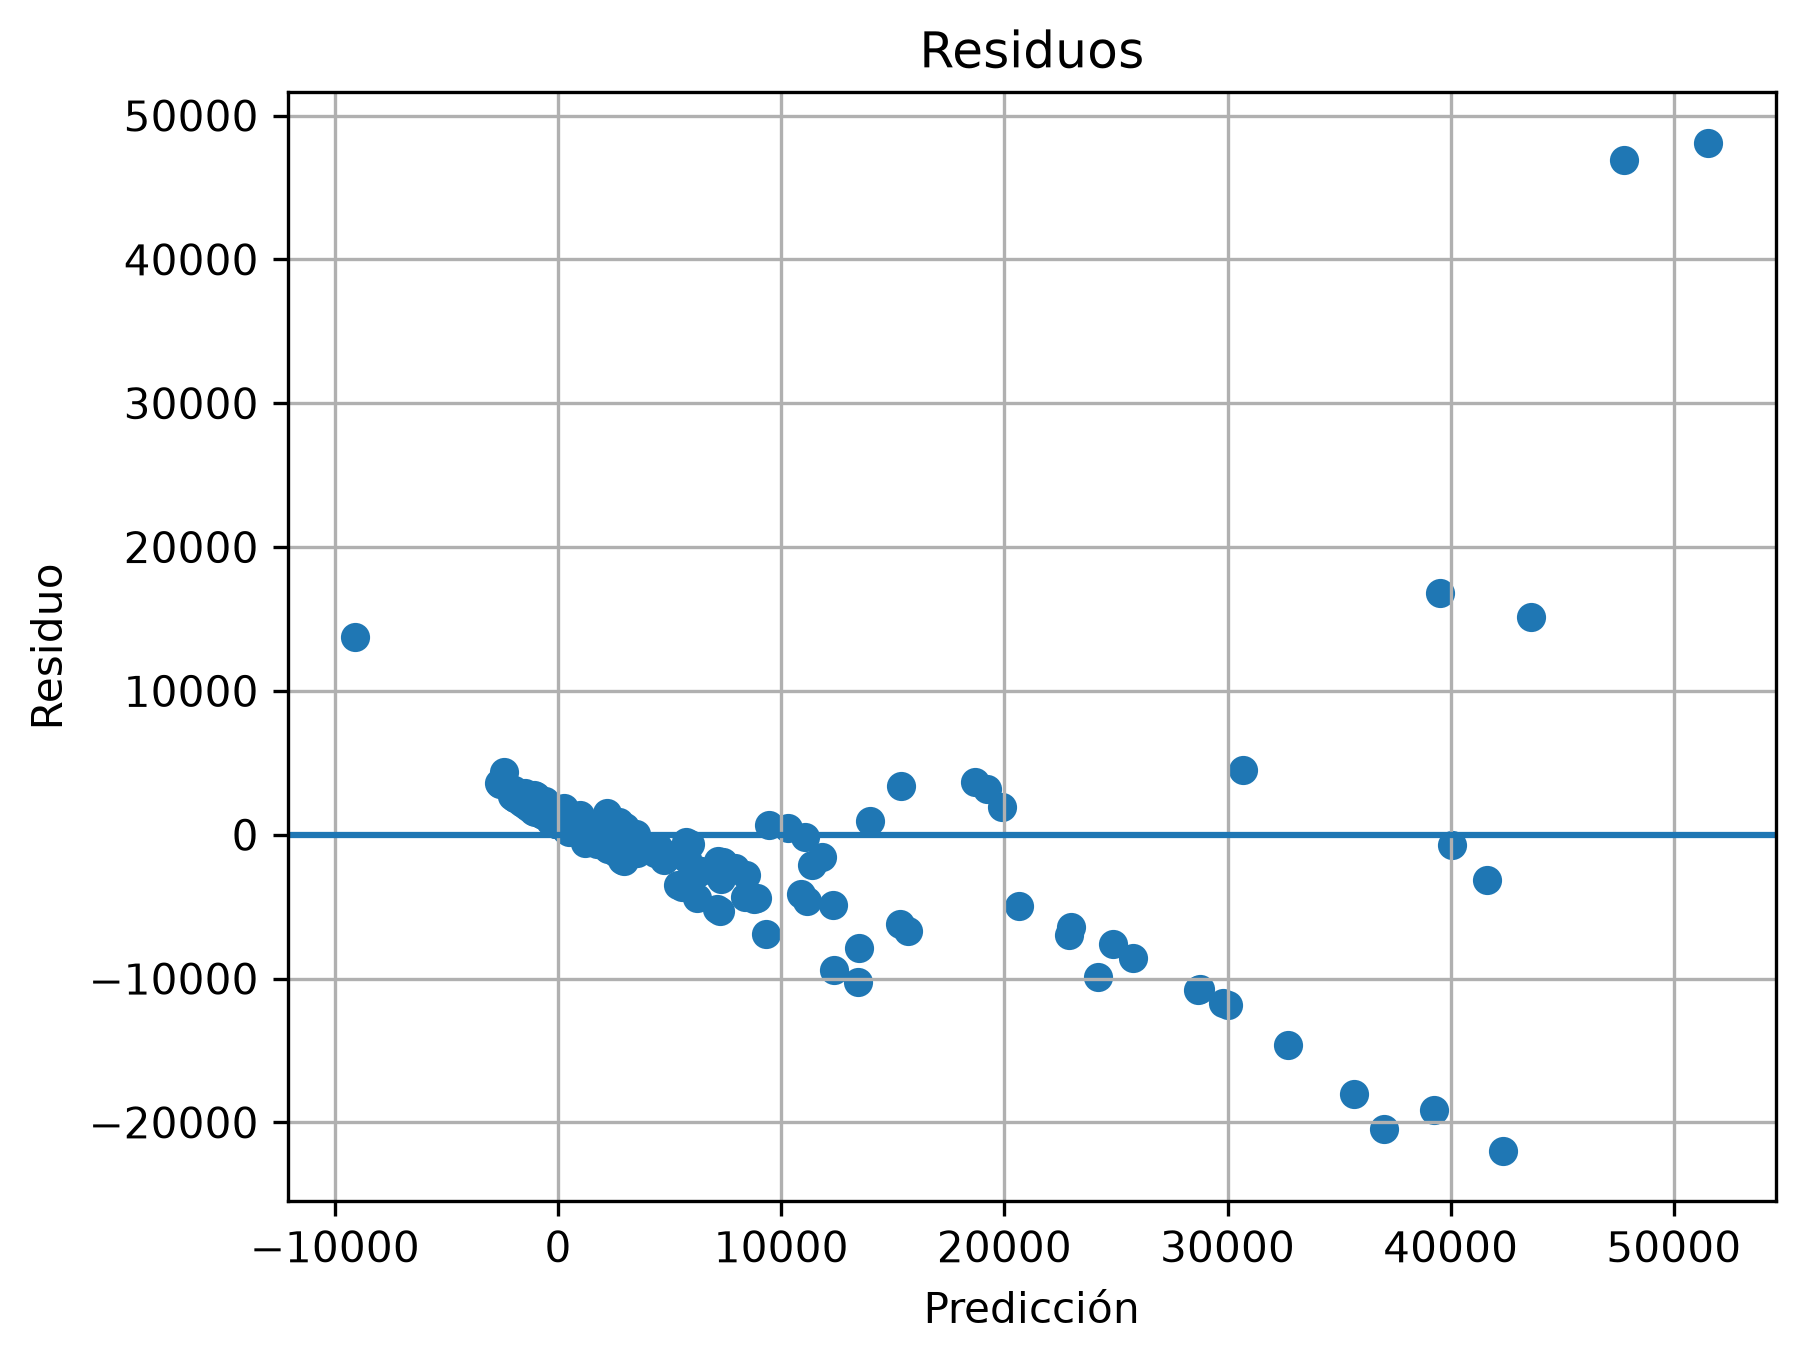
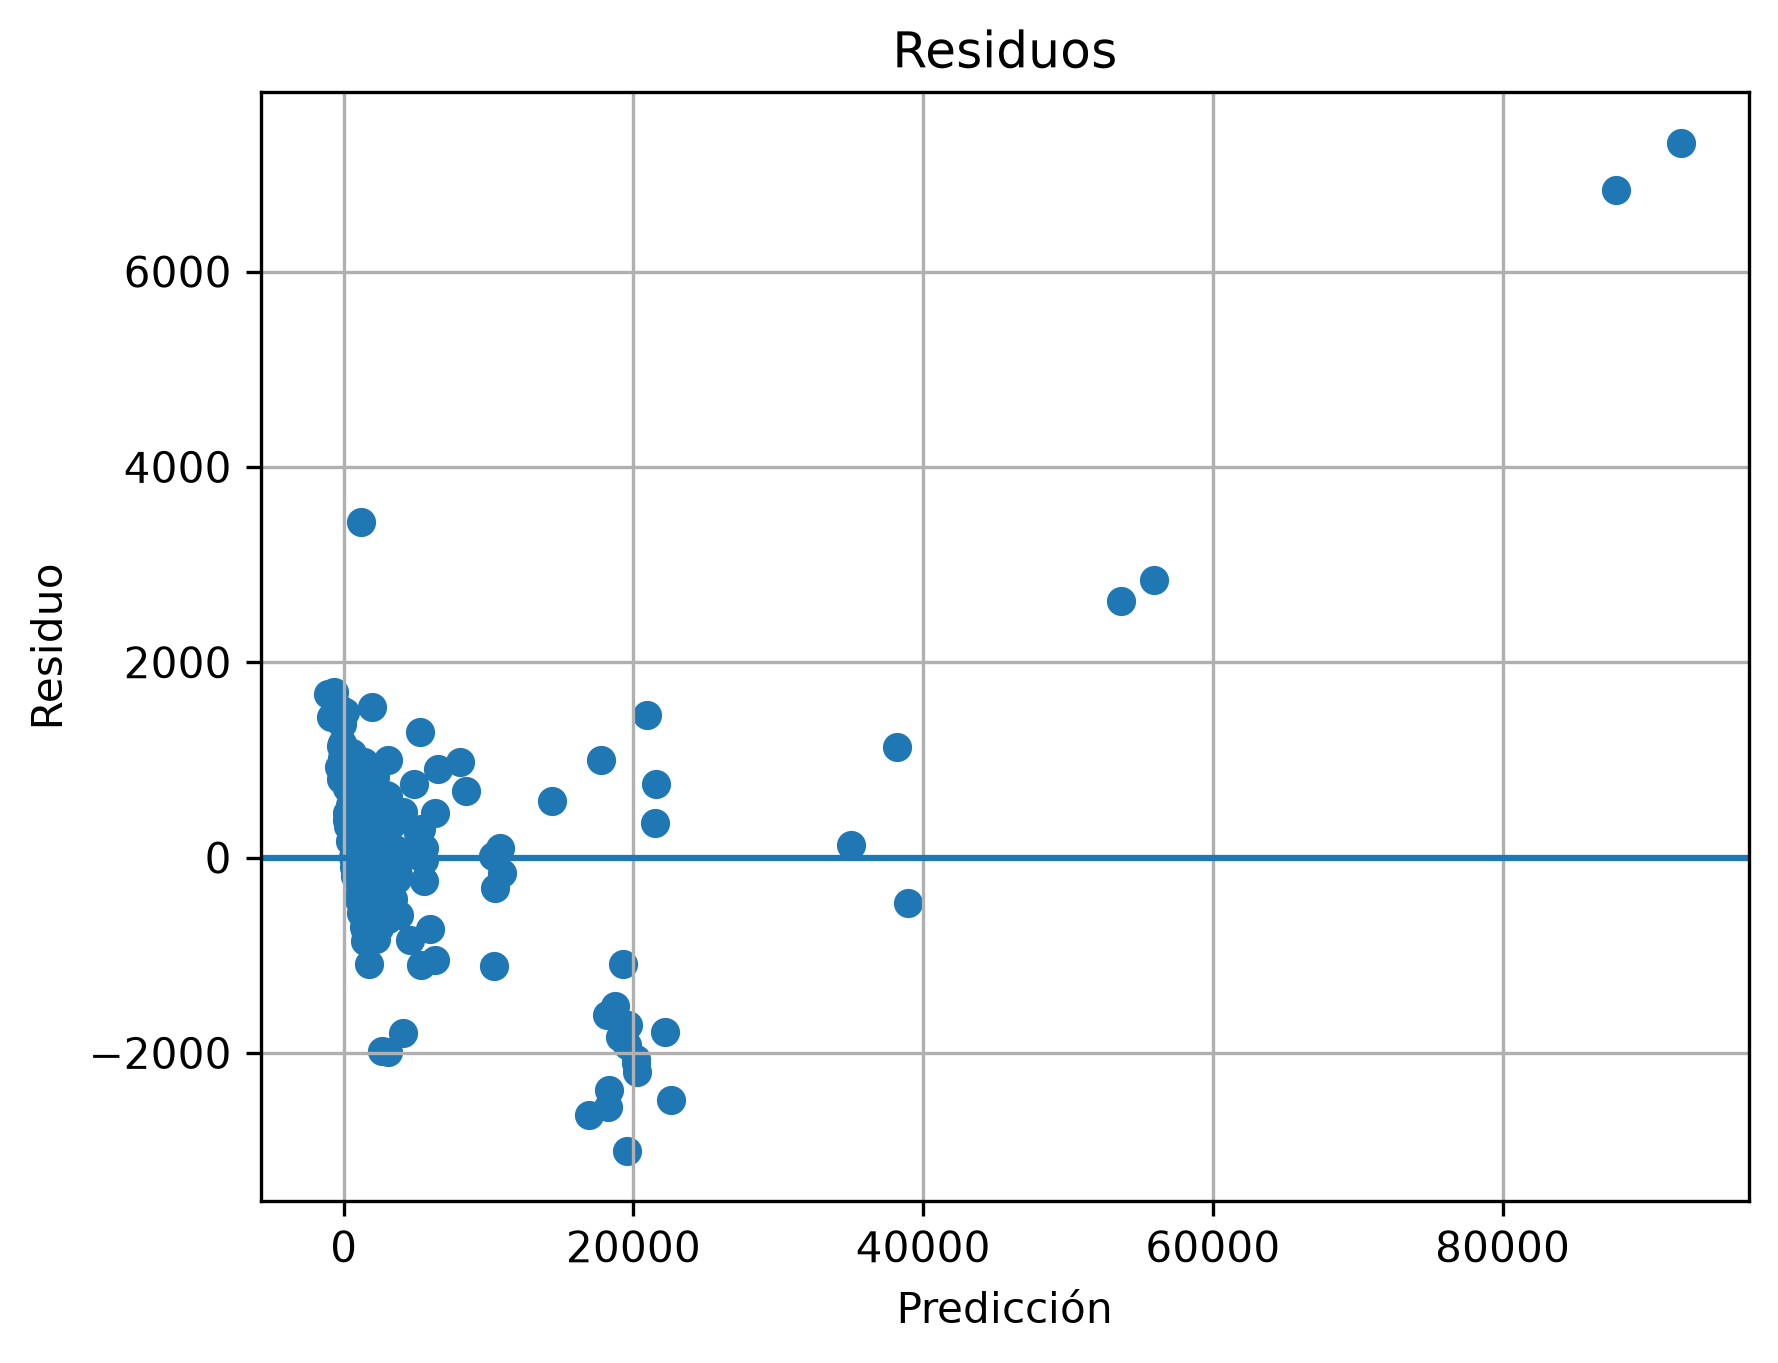
Corregios errores en la limpieza de datos y profundizamos en EDA para hacer el entrenamiento mas preciso.

diff --git a/Machine_Learning/Semana_2_ML/dia7AnalisisVentas/src/services/analizadorDatos.py b/Machine_Learning/Semana_2_ML/dia7AnalisisVentas/src/services/analizadorDatos.py
@@ -19,27 +19,32 @@ def paraDataFrame(tabla_csv):
 def limpiezaDatos(tablaDatos): 
    
    # ----------- Fecha --------------------------------------------------
-   tablaDatos["Fecha"] = pd.to_datetime(tablaDatos["Fecha"], format="mixted", errors="coerce")
+   tablaDatos["Fecha"] = pd.to_datetime(tablaDatos["Fecha"], format="mixed", errors="coerce")
+
    tablaDatos["Fecha"] = tablaDatos["Fecha"].fillna(datetime.now())
    tablaDatos["Fecha"] = pd.to_datetime(tablaDatos["Fecha"])
 
    tablaDatos["Mes"] = tablaDatos["Fecha"].dt.month
    tablaDatos["Dia"] = tablaDatos["Fecha"].dt.day
+   tablaDatos = tablaDatos.drop(columns=["Fecha"], errors="ignore")
 
    # ----------- Producto -----------------------------------------------
 
+   tablaDatos["Producto"] = tablaDatos["Producto"].replace("Memoria RAM 16 GB","Memoria RAM 16GB")
+   tablaDatos["Producto"] = tablaDatos["Producto"].replace("Laptop ","Laptop")
    tablaDatos["Producto"] = tablaDatos["Producto"].astype("string")
-   tablaDatos["Producto"] = tablaDatos["Producto"].fillna("Sin Informacion")
 
    # ----------- Ciudad -----------------------------------------------
    
-   tablaDatos["Ciudad"] = tablaDatos["Ciudad"].astype("string")
-   tablaDatos["Ciudad"] = tablaDatos["Ciudad"].fillna("Sin Ciudad")
+   tablaDatos["Ciudad"] = tablaDatos["Ciudad"].astype(str).str.strip()
+   tablaDatos["Ciudad"] = tablaDatos["Ciudad"].replace("Guadalajra", "Guadalajara")
+
 
    # ----------- Canal -----------------------------------------------
    
-   tablaDatos["Canal"] = tablaDatos["Canal"].astype("string")
-   tablaDatos["Canal"] = tablaDatos["Canal"].fillna("Sin Informacion")
+   tablaDatos["Canal"] = tablaDatos["Canal"].astype(str).str.strip()
+   tablaDatos["Canal"] = tablaDatos["Canal"].str.capitalize()
+   tablaDatos["Canal"] = tablaDatos["Canal"].replace("Tienda fisica","Tienda física")
 
    # ----------- Cantidad -----------------------------------------------
       
@@ -48,7 +53,7 @@ def limpiezaDatos(tablaDatos):
    medianaCant = np.nanmedian(tablaDatos["Cantidad"])
    tablaDatos["Cantidad"] = tablaDatos["Cantidad"].fillna(medianaCant)
    
-   # ----------- Canal -----------------------------------------------
+   # ----------- Precio_Unitario -----------------------------------------------
       
    tablaDatos["Precio_Unitario"] = pd.to_numeric(tablaDatos["Precio_Unitario"], errors= "coerce")
    tablaDatos["Precio_Unitario"] = tablaDatos["Precio_Unitario"].abs()
@@ -61,6 +66,7 @@ def limpiezaDatos(tablaDatos):
    tablaDatos["Descuento"] = pd.to_numeric(tablaDatos["Descuento"], errors="coerce")
    tablaDatos["Descuento"] = tablaDatos["Descuento"].abs()
    medianaDes = np.nanmedian(tablaDatos["Descuento"])
+   tablaDatos.loc[tablaDatos["Descuento"] > 1, "Descuento"] = medianaDes
    tablaDatos["Descuento"] = tablaDatos["Descuento"].fillna(medianaDes)
    
    # ----------- Ventas -----------------------------------------------
@@ -70,8 +76,13 @@ def limpiezaDatos(tablaDatos):
    medianaVent = np.nanmedian(tablaDatos["Ventas"])
    tablaDatos["Ventas"] = tablaDatos["Ventas"].fillna(medianaVent)
 
-   #Convertimos a valores númericos para su entrenamiento en el modelo de regressión. 
-   tablaDatos = pd.get_dummies(tablaDatos, columns=["Producto","Ciudad", "Canal"], drop_first=True)
+   # ----------- SubTotal -----------------------------------------------
+   tablaDatos["SubTotal"] = tablaDatos["Cantidad"] * tablaDatos["Precio_Unitario"]
+   tablaDatos = tablaDatos.drop(columns=["Precio_Unitario", "Cantidad"], errors="ignore")
+
+   #Convertimos a valores binarios los datos para su entrenamiento en el modelo de regressión. 
+   #drop_fisrt elimina una columna ya que se vuelve redundante, si se tiene que en todas es 0 entonces es porque esta en la otra. 
+   tablaDatos = pd.get_dummies(tablaDatos, columns=["Producto","Ciudad", "Canal"], drop_first=True, dummy_na=False)
 
    logger.info("analizador Grafico | Se limpio el dataframe de datos erroneos. ")
    return tablaDatos

diff --git a/Machine_Learning/Semana_2_ML/dia7AnalisisVentas/main.py b/Machine_Learning/Semana_2_ML/dia7AnalisisVentas/main.py
@@ -27,7 +27,10 @@ def main():
 
     #Creación y limpieza de la tabla
     tabla = paraDataFrame(csv_pathDos)
+    print(tabla)
+    
     tabla = limpiezaDatos(tabla)
+    print(set(tabla))
 
     #Analisis de datos de la tabla 
     primerasFilas(tabla)
@@ -74,6 +77,7 @@ def main():
     #Mostramos las graficas para conocer la exactitud del modelo. 
     realVSpredicho(y_test, y_sombrero)
     graficaResiduos(y_test, y_sombrero)
+    
     
 
 

diff --git a/Machine_Learning/Semana_2_ML/dia7AnalisisVentas/src/services/analizadorModelo.py b/Machine_Learning/Semana_2_ML/dia7AnalisisVentas/src/services/analizadorModelo.py
@@ -12,7 +12,7 @@ import numpy as np
 logger = obtener_logger(__name__)
 
 def separacionDatos(tablaDatos):
-    X = tablaDatos.drop(columns=["Ventas", "Fecha"])
+    X = tablaDatos.drop(columns=["Ventas"])
     y = np.array(tablaDatos["Ventas"])
     logger.info("Separación del target y los features")
     return X, y
